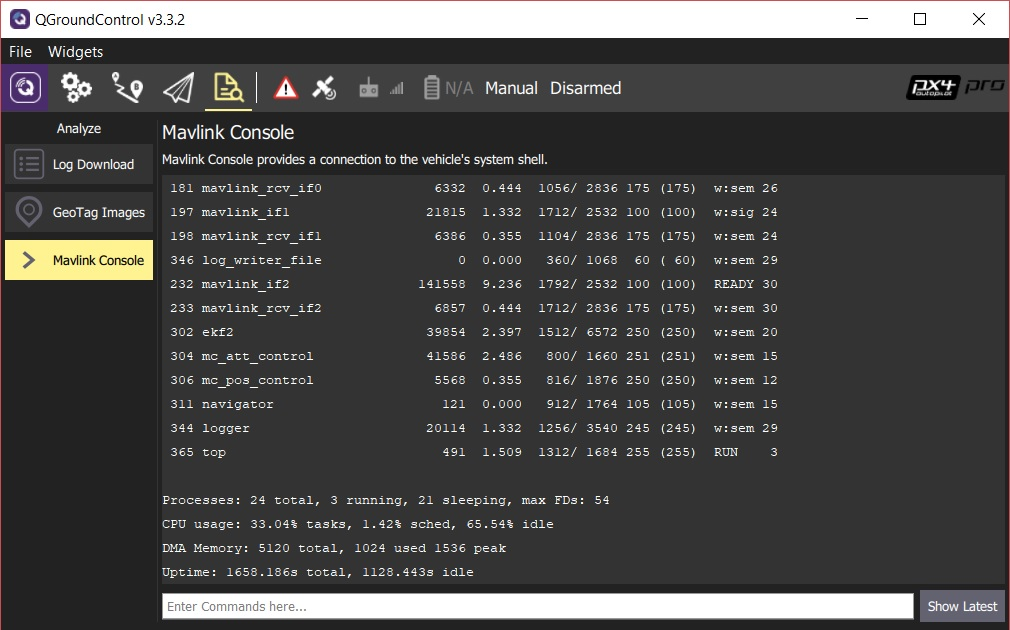
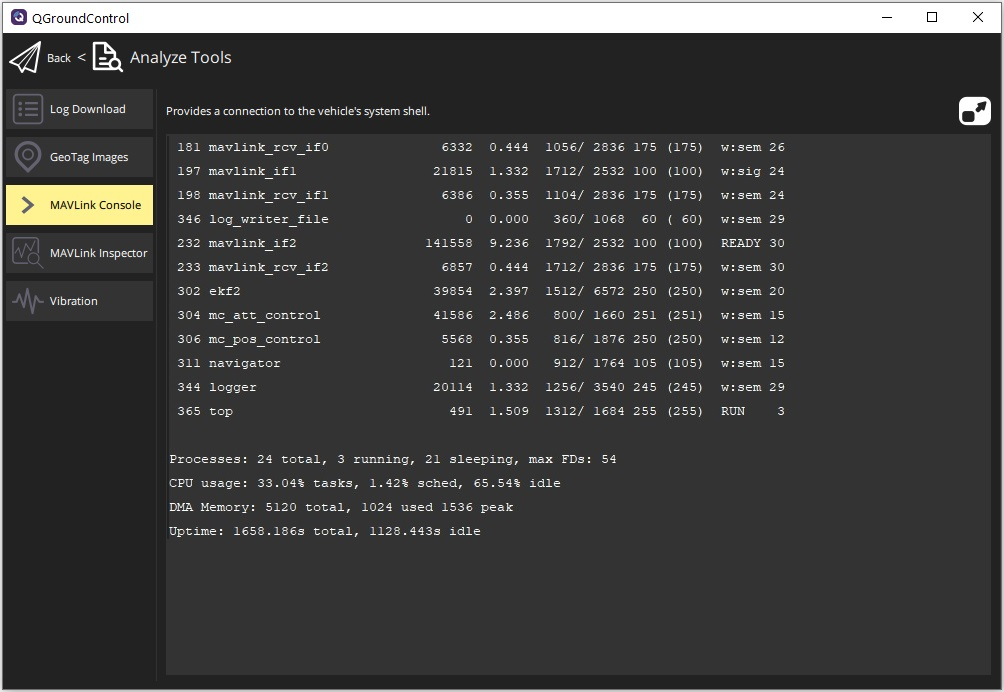
Analyze view - fix up some screenshots (#293)
* Move airframe_px4 setup files

* Update menu to refer to App menu. Also update image

* update analyze images

* Update some images to more recent QGC - primarily in analyze

Changed region(s): [[0.0, 0.0, 1.0, 1.0]]

diff --git a/en/SetupView/airframe_px4.md b/en/SetupView/airframe_px4.md
@@ -2,15 +2,16 @@
 
 To select the airframe in PX4:
 
-1. First select the **Gear** icon (Vehicle Setup) in the top toolbar and then **Airframe** in the sidebar.
+1. Start *QGroundControl* and connect the vehicle.
+1. Select **QGroundControl icon > Vehicle Setup > Airframe** (sidebar) to open *Airframe Setup*.
 1. Select the broad vehicle group/type that matches your airframe and then use the dropdown within the group to choose the airframe that best matches your vehicle. 
    
-   ![Airframe options](../../assets/setup/airframe_px4.jpg)
+   ![Airframe options](../../assets/setup/airframe_px4/airframe_px4.jpg)
    
-   The example above shows *3DR Iris Quadrotor* selected from the *Quadrotor Wide* group.
+   The example above shows *Generic Hexarotor X geometry* selected from the *Hexarotor X* group.
 
 1. Click the **Apply and Restart** button to the top right of the screen.
 1. Click **Apply** in the following prompt to save the settings and restart the vehicle.
 
-   <img src="../../assets/setup/airframe_px4_apply_prompt.jpg" width="200px" title="Apply airframe selection prompt" />
+   <img src="../../assets/setup/airframe_px4/airframe_px4_apply_prompt.jpg" width="200px" title="Apply airframe selection prompt" />
 

diff --git a/en/analyze_view/README.md b/en/analyze_view/README.md
@@ -1,12 +1,13 @@
 # Analyze View
 
-The *Analyze View* is accessed from the main toolbar.
+The *Analyze View* is accessed by selecting the *QGroundControl* application menu ("Q" icon in the top left corner) and then selecting the **Analyze Tools** button (from the *Select Tool* popup).
 
-![Analyze icon](../../assets/analyze/analyze_toolbar.jpg)
+![Analyze ](../../assets/analyze/menu_analyze_tool.png)
 
-It provides tools to:
+The view provides tools to:
 
 * [Download Logs](../analyze_view/log_download.md) — List, download and clear logs on the vehicle.
 * [GeoTag Images (PX4)](../analyze_view/geotag_images.md) — Geotag survey mission images using the flight log (on a computer).
 * [MAVLink Console (PX4)](../analyze_view/mavlink_console.md) — Access the the nsh shell running on the vehicle.
 * [MAVLink Inspector](../analyze_view/mavlink_inspector.md) — Display and chart received MAVLink messages/values.
+* Vibration clip count

diff --git a/en/analyze_view/mavlink_inspector.md b/en/analyze_view/mavlink_inspector.md
@@ -12,7 +12,9 @@ You can drill down into individual messages to get the message id, source compon
 You can also chart field values in real time, selecting multiple fields from multiple messages to display on one of two charts.
 
 To use the *MAVLink Inspector*:
-1. Select **Analyze | MAVLink Inspector**.
+1. Open *Analyze View* by selecting the *QGroundControl* application menu ("Q" icon in top left corner) and then choosing the **Analyze Tools** button (from the *Select Tool* popup).
+   ![Analyze ](../../assets/analyze/menu_analyze_tool.png)
+1. Select the **MAVLink Inspector** from the sidebar.
 
    ![MAVLink inspector menu](../../assets/analyze/mavlink_inspector/mavlink_inspector_menu.jpg)
 

diff --git a/en/analyze_view/mavlink_console.md b/en/analyze_view/mavlink_console.md
@@ -2,7 +2,7 @@
 
 The MAVLink Console (**Analyze > Mavlink Console**) allows you to connect to the PX4 [nsh shell](https://dev.px4.io/en/debug/system_console.html) and send commands.
 
-> **Note** The console only works when connected to *hardware* running the *PX4* flight stack. 
+> **Note** The console only works when connected to *hardware* running the *PX4* flight stack.
   PX4 SITL and ArduPilot are not supported.
 
 <span></span>
